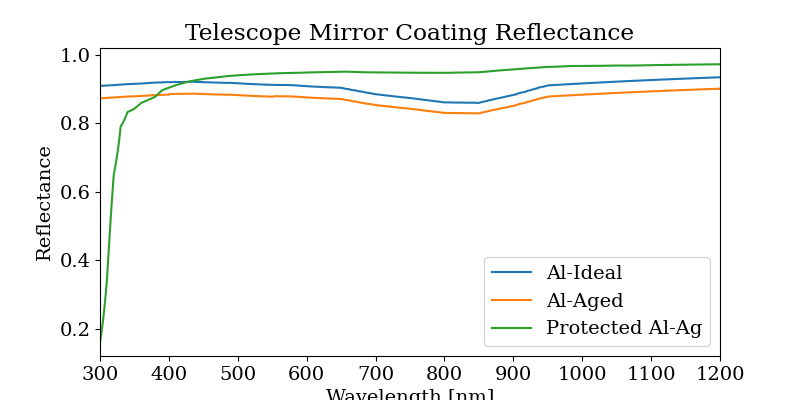
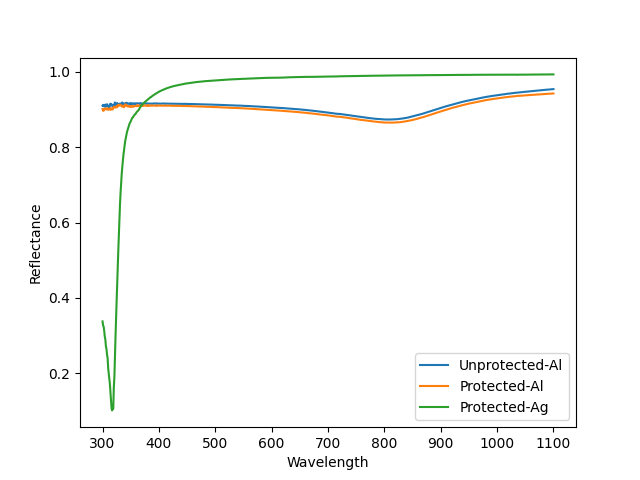
big update

diff --git a/index.rst b/index.rst
@@ -1,16 +1,16 @@
-:tocdepth: 1
+cd:tocdepth: 1
 
 .. sectnum::
 
 Abstract
 ========
 
-Determining the length of exposures needed when using the Collimated Beam Projector
+This tech note provides a description of the Exposure Time Calculator for the Collimated Beam Projector (CBP), which is part of the main telescope Calibration System. It includes results of expected exposure times for a range of pinhole masks in each LSST filter. 
 
 Overview
 ========
 
-Want to determine the exposure time required by the CBP, being fed by a tunable laser, for a given SNR. 
+The Collimated Beam Projector (CBP) is a novel calibration device used to determine the throughput of the LSST optics. It is fed with a tunable laser so that we can measure the throughput across all LSST filters. We want to determine the required exposure times of the LSSTCam to achieve a required Signal to Noise Ratio to develop the necessary calibration products. 
 
 .. math:: \textrm{exptime} = \frac{SNR^{2}}{\textrm{ph_rate}}
 
@@ -38,6 +38,10 @@ We are using the Ekspla NT242 currently. It is possible that we may have a backu
 
    Output of NT242 laser
 
+.. note::
+
+   This ETC assumes the laser will be used in continuous mode. It will likely be used in burst mode.
+
 Fiber Attentuation
 ------------------
 Parameters:
@@ -46,7 +50,7 @@ Parameters:
  - ``fiber coupling``: This is the throughput decrease based on the coupling between the fiber and the laser. 
  - ``use_fiber``: Whether or not a fiber will be used [True]
 
-Based loosely on LTS-664, I estimate that the fiber will run ~8m from the laser to the CBP. 
+Based loosely on LTS-664, I estimate that the fiber will run ~15m from the laser to the projector. 
 
 Likely, will get this fiber from ceramoptic: https://www.ceramoptec.com/products/fibers/optran-uv-/-wf.html.
 The attenuation (dB/km) for several kinds of fibers was sent to me by Ceramoptic (email) and ``WFNS`` was recommended.
@@ -62,11 +66,23 @@ Tranmission of the fiber is then calculated:
 
 .. math:: \textrm{T} = 10^{\frac{-dB/km}{distance(km)/10}}
 
-Based on initial measurements, the ``fiber_coupling`` is estimated to be 0.5 across all wavelengths.
+Based on initial measurements with a NA=0.22 fiber on April 11, 2023, the ``fiber_coupling`` is estimated to be 0.8 across wavelengths.
 
 
 CBP Throughput
 ==============
+
+The laser light travels from the laser to the CBP via fiber optic. This runs to a 6" integrating sphere, which also has a photodiode attached so that we can monitor the relative light level. The light from the integrating sphere then travels through the mask, which is positioned on the focal plane of the cbp. The CBP then collimates the light and sends it towards the LSST telescope and camera.
+
+The total throughput of the CBP consists of that of the integrating sphere, the mask efficiency and the efficiency of the CBP optics (mirrors and lenses) depends on the size of the mask pinhole. 
+
+.. figure:: /_static/cbp_drawing.png
+   :name: cbp_drawing
+   :target: ../_images/cbp_drawing.png
+   :alt: cbp_drawing
+
+   Layout of CBP
+
 
 Integrating Sphere
 ------------------
@@ -144,9 +160,11 @@ Parameters:
 Mirror Reflectance
 ------------------
 Parameters:
- - ``m1``, ``m2``, ``m3``: Reflectance for a mirror coating; options:[``Al-Ideal``, ``Al-Aged``, ``Al-Ag``]
+ - ``m1``, ``m2``, ``m3``: Reflectance for a mirror coating; options:[``Unprotected-Al``,``Protected-Al``,``Protected-Ag``]
 
-There are three mirrors [m1, m2, m3] that will be coated with either Al or Ag. The full throughput will be the combination of the three mirrors, whether all have the same coating or different. The curves we are using for the Al coatings come from the `Baseline Design Throughput <https://docushare.lsst.org/docushare/dsweb/View/Collection-1777>`__ on Docushare. The Al-Ag coating can be found on the `Mirror Coating Recipe <https://docushare.lsst.org/docushare/dsweb/View/Collection-1047>`__ on Docushare.
+There are three mirrors [m1, m2, m3] that will be coated with either Al or Ag. The full throughput will be the combination of the three mirrors, whether all have the same coating or different. The curves we are using come from a document sent directly from Tomislav Vicuna, called :file:`Final procAg-ProcAl_bareAl.xlsx`. 
+
+Currently, the understanding is that all three mirrors will be coated in Protected Silver.
 
 .. figure:: /_static/mirror_coating_reflectance.png
    :name: mirror_coating_reflectance
@@ -155,9 +173,9 @@ There are three mirrors [m1, m2, m3] that will be coated with either Al or Ag. T
 
    Reflectance of telescope mirror coatings
 
-Filter Throughput
------------------
-Using the filter throughput from the `Baseline Design Throughput <https://docushare.lsst.org/docushare/dsweb/View/Collection-1777>`__ on Docushare.
+Filter & Corrector Throughput
+-----------------------------
+Using the filter and lens throughput from the `Baseline Design Throughput <https://docushare.lsst.org/docushare/dsweb/View/Collection-1777>`__ on Docushare.
 
 .. figure:: /_static/ideal_filters.png
    :name: ideal_filters
@@ -165,6 +183,14 @@ Using the filter throughput from the `Baseline Design Throughput <https://docush
    :alt: ideal_filters
 
    Ideal filter throughput
+
+
+.. figure:: /_static/collimator_trans.png
+   :name: collimator_trans
+   :target: ../_images/collimator_trans.png
+   :alt: collimator_trans
+
+   Total transmission of three lenses that make up the collimator.
 
 Detector Efficiency
 -------------------
@@ -194,6 +220,9 @@ I am not currently calculating the readout time required for the electrometer. T
 
 Exposure Time Calculator
 ========================
+
+The code for the ETC is currently being developed in https://github.com/lsst-sitcom/notebooks_parfa30/tree/main/python/lsst/sitcom/parfa30/exposure_time_calculator.
+
 The exposure time calculator is saved in :file:`rubin_calib_etc.py` and runs given a configuration file, like :file:`calib_etc.yaml`. 
 
 First, photons per pixel are calculated, by taking the following steps:
@@ -223,7 +252,39 @@ First, photons per pixel are calculated, by taking the following steps:
 Sample Results
 ==============
 
-Using a 6 inch integrating sphere with a mask with a pinhole size of 150um and all telescope mirrors being ``Al-Ag``, you would get the following photon rate and total exposure times:
+The following results assume a 6 inch integrating sphere using the NT242 laser used in **continuous mode**.
+These results were generated with the calibration files :file:`'cbp_calib_etc_11092023.yaml'`.
+
+The photon rate (photons/second/pixel) of the CBP constant relative to the size fo the pinhole. 
+
+.. table:: Photon rate from CBP
+
+   +----------+----------------+
+   | Filter   |  Photon Rate   | 
+   +----------+----------------+
+   | u        | 4986.94        | 
+   +----------+----------------+
+   | g        | 253573.16      |
+   +----------+----------------+
+   | r        | 103405.55      |
+   +----------+----------------+
+   | i        | 45307.81       |
+   +----------+----------------+
+   | z        | 94469.94       |
+   +----------+----------------+
+   | y4       | 74643.21       |
+   +----------+----------------+
+
+The photon spot rate does change as a function of pinhole diameter, given the magnification of 16 between the CBP and LSSTCam
+
+.. figure:: /_static/cbp_photon_spot_rate.png
+   :name: cbp_photon_spot_rate
+   :target: ../_images/cbp_photon_spot_rate.png
+   :alt: cbp_photon_spot_rate
+
+   Mean photon rate per spot for CBP per filter as a function of the spot size
+
+The following two plots show the photon rate per spot at every wavelength for a mask with a 150um and 5um pinhole.
 
 .. figure:: /_static/photon_rate_150um_cbp.png
    :name: photon_rate_150um_cbp
@@ -232,14 +293,24 @@ Using a 6 inch integrating sphere with a mask with a pinhole size of 150um and a
 
    Photon rate per spot for CBP with 150um pinhole
 
+.. figure:: /_static/photon_rate_5um_cbp.png
+   :name: photon_rate_5um_cbp
+   :target: ../_images/photon_rate_5um_cbp.png
+   :alt: photon_rate_5um_cbp
+
+   Photon rate per spot for CBP with 5um pinhole
+
+In all cases, the exposure time per wavelength is on order of 1 second per wavelength to achieve a SNR of 300. If we include the fact that we can't take an exposure more often than every 15 seconds, we are heavily dominated by the overhead time. 
+
+.. figure:: /_static/exptime_5um_cbp.png
+   :name: exptime_5um_cbp
+   :target: ../_images/exptime_5um_cbp.png
+   :alt: exptime_5um_cbp
+
+   Photon rate per spot for CBP with 5um pinhole
 
 
-.. figure:: /_static/exptime_150um_cbp.png
-   :name: exptime_150um_cbp
-   :target: ../_images/exptime_150um_cbp.png
-   :alt: exptime_150um_cbp
 
-   Total exposure times for SNR = 300 for each spot
 
 
 .. Make in-text citations with: :cite:`bibkey`.
